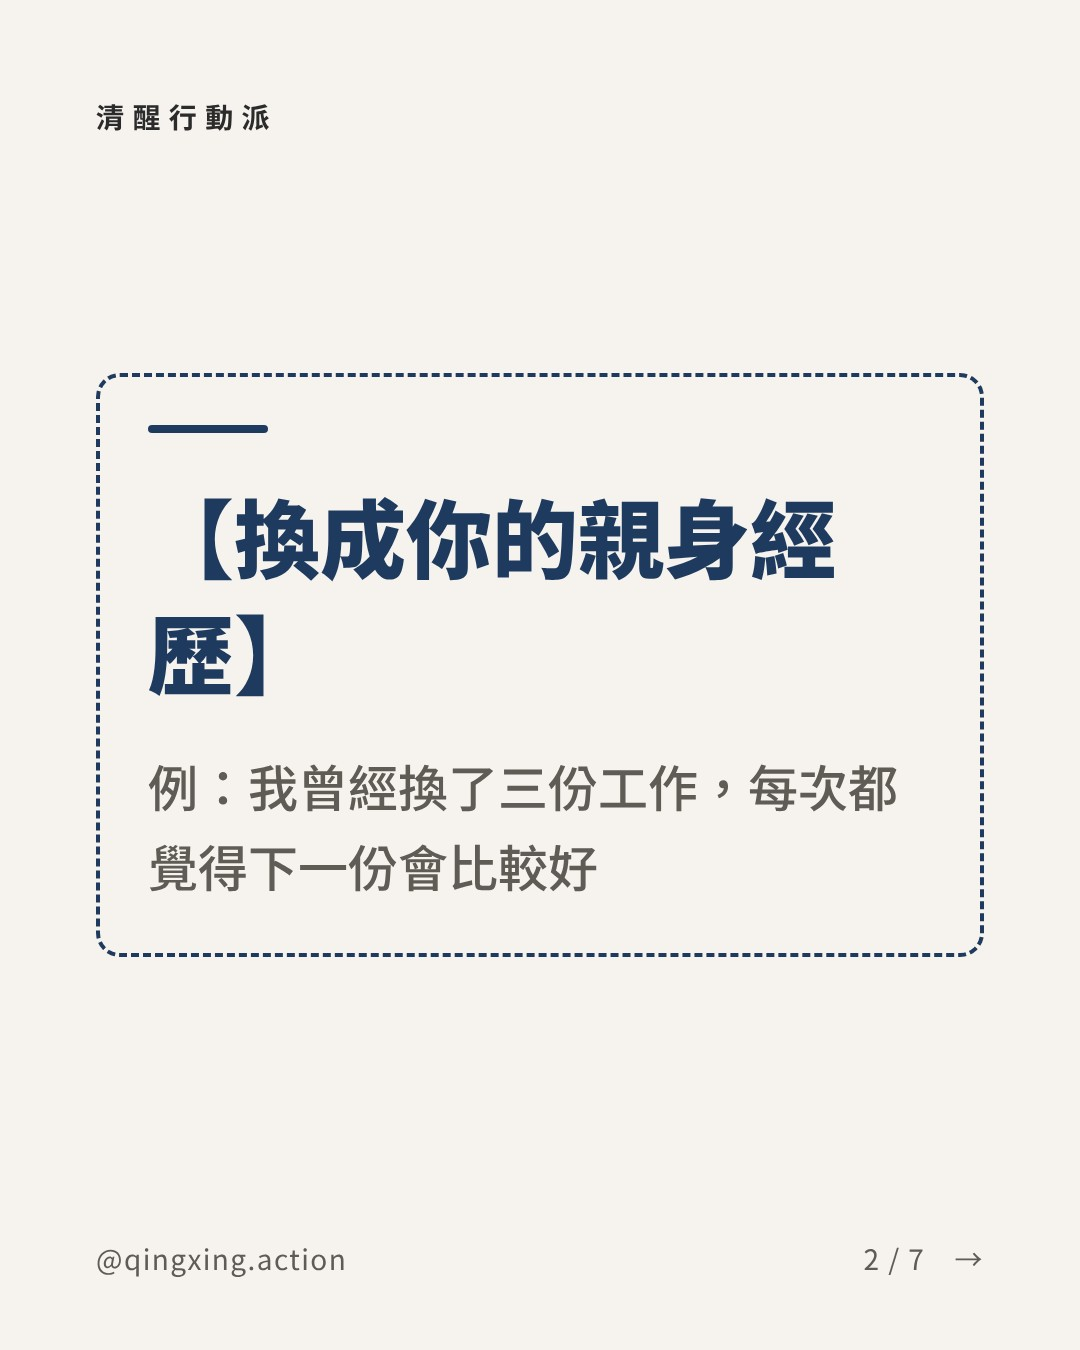
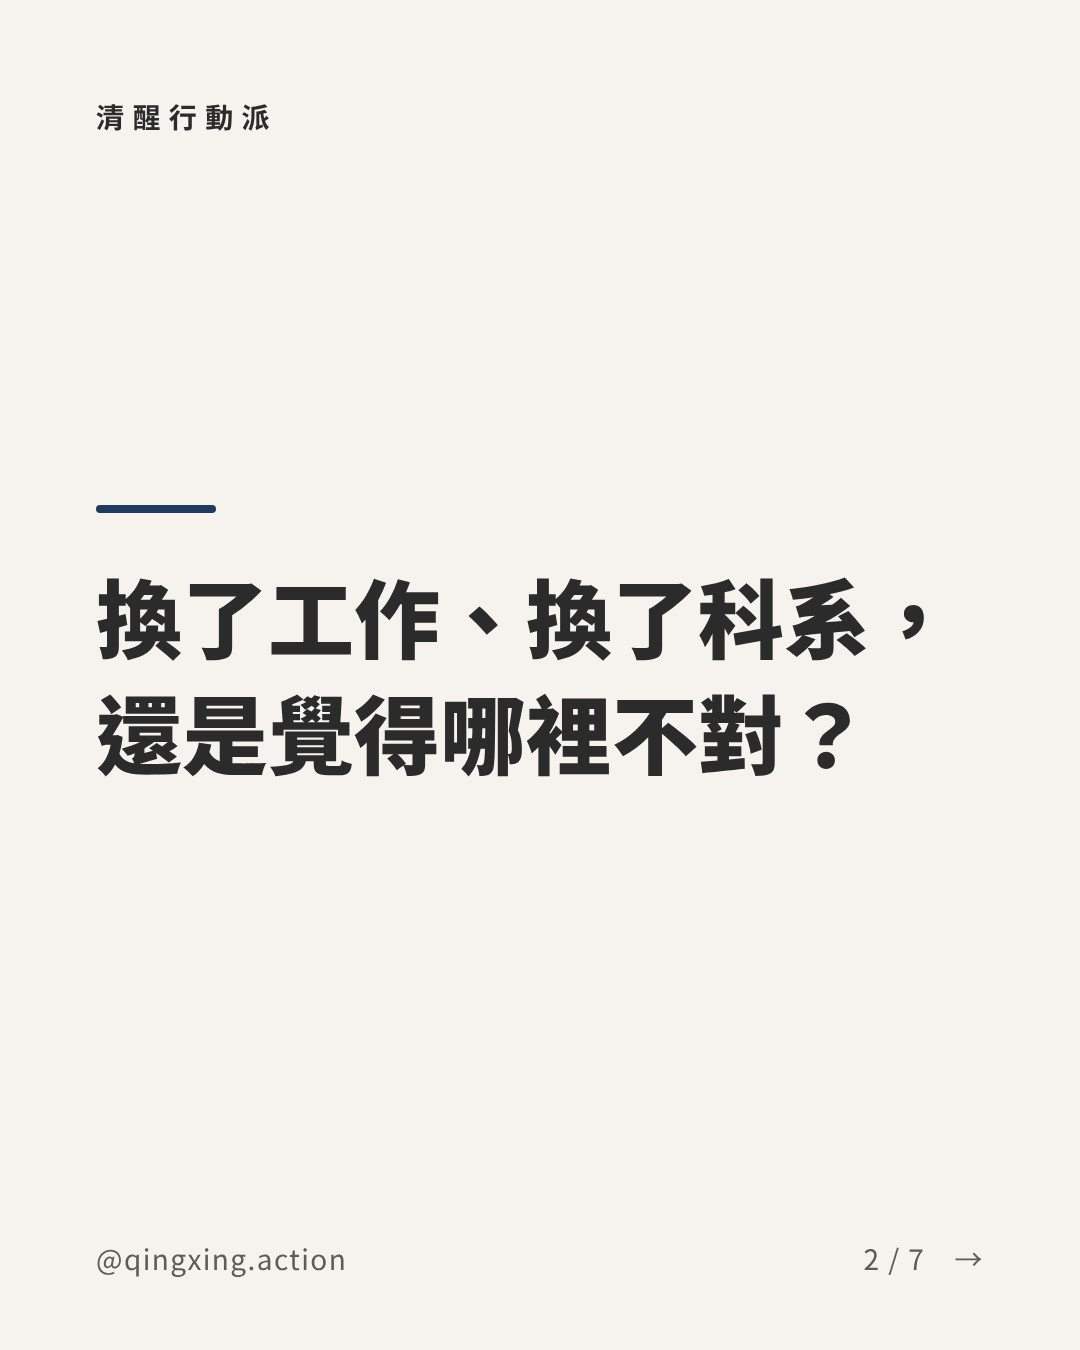
feat(qingxing): 後台可安裝成 Chrome App，加入 IG 排程與快速記錄；Day 10 改為不含個人經歷版本
Claude-Session: https://claude.ai/code/session_016ub6HVuP9gmetJ5a33MKLD

diff --git a/qingxing/index.html b/qingxing/index.html
@@ -3,7 +3,11 @@
 <head>
 <meta charset="utf-8">
 <meta name="viewport" content="width=device-width, initial-scale=1">
-<title>清醒行動派｜數據與收入儀表板</title>
+<title>清醒行動派｜後台</title>
+<link rel="manifest" href="manifest.webmanifest">
+<meta name="theme-color" content="#1F3A5F">
+<link rel="icon" type="image/png" href="icon-192.png">
+<link rel="apple-touch-icon" href="icon-192.png">
 <meta name="description" content="清醒行動派 IG／抖音成長數據與每日入帳追蹤，資料來自 Notion，每 6 小時自動同步。">
 <link rel="preconnect" href="https://fonts.googleapis.com">
 <link href="https://fonts.googleapis.com/css2?family=Noto+Sans+TC:wght@400;500;700&display=swap" rel="stylesheet">
@@ -64,6 +68,18 @@ td.num,th.num{text-align:right}
 .setup{background:var(--tint);border:1px dashed var(--accent3);border-radius:14px;padding:14px 18px;font-size:13.5px;margin-bottom:16px}
 .setup ol{margin:6px 0 0;padding-left:20px}
 .setup code{background:var(--card);padding:1px 6px;border-radius:5px;font-size:12.5px}
+[hidden]{display:none!important}
+.actions{gap:8px}
+.btn{display:inline-flex;align-items:center;border:1px solid var(--accent);background:var(--accent);color:#fff;border-radius:10px;padding:7px 14px;font:inherit;font-size:13.5px;text-decoration:none;cursor:pointer}
+.btn.ghost{background:var(--card);color:var(--accent);border-color:var(--line)}
+.sched{display:grid;grid-template-columns:repeat(auto-fill,minmax(132px,1fr));gap:10px}
+.post{border:1px solid var(--line);border-radius:12px;overflow:hidden;background:var(--bg);text-decoration:none;color:inherit}
+.post img{display:block;width:100%;aspect-ratio:4/5;object-fit:cover;background:var(--grid)}
+.post div{padding:7px 9px 9px;font-size:12px;line-height:1.45}
+.post b{display:block;font-size:12.5px}
+.post .tag{display:inline-block;font-size:11px;padding:0 6px;border-radius:99px;background:var(--tint);color:var(--accent);margin-top:3px}
+.post .tag.draft{background:#FDF1D8;color:#8A5A00}
+.post.today{outline:2px solid var(--accent)}
 footer{margin-top:28px;font-size:12px;color:var(--ink3);text-align:center}
 @media (max-width:640px){ .kpi .v{font-size:22px} h1{font-size:19px} }
 </style>
@@ -71,7 +87,7 @@ footer{margin-top:28px;font-size:12px;color:var(--ink3);text-align:center}
 <body>
 <div class="wrap">
 <header>
-  <h1>清醒行動派<small>數據與收入儀表板｜先清醒，再行動</small></h1>
+  <h1>清醒行動派<small>後台：數據、收入、IG 排程｜先清醒，再行動</small></h1>
   <div class="meta" id="meta">載入中…</div>
 </header>
 
@@ -98,9 +114,18 @@ footer{margin-top:28px;font-size:12px;color:var(--ink3);text-align:center}
   </div>
 </div>
 
+<div class="row actions">
+  <a class="btn" href="https://app.notion.com/p/c6c1c75e84454b7f9e4fe7fa73fcdd5e" target="_blank" rel="noopener">＋ 記錄今天數據</a>
+  <a class="btn" href="https://app.notion.com/p/68fe898d466e4538ac2686aa8b629dd9" target="_blank" rel="noopener">＋ 記錄一筆收入</a>
+  <a class="btn ghost" href="https://portaly.cc/qingxing.action" target="_blank" rel="noopener">Portaly 頁面</a>
+  <a class="btn ghost" href="https://www.instagram.com/qingxing.action/" target="_blank" rel="noopener">IG 帳號</a>
+  <button class="btn ghost" id="installBtn" hidden>安裝成 App</button>
+</div>
+
 <section class="kpis" id="kpis"></section>
 
 <section class="grid">
+  <div class="card wide"><h2>接下來的 IG 排程</h2><div class="sub">每晚 20:00 自動發；標「草稿」的要先補內容才會發</div><div id="sched" class="sched"></div></div>
   <div class="card"><h2>粉絲數</h2><div class="sub">每日累計追蹤數</div><div id="chFollowers"></div></div>
   <div class="card"><h2>觀看數</h2><div class="sub">每日內容觀看／觸及</div><div id="chViews"></div></div>
   <div class="card"><h2>熱度</h2><div class="sub">讚 ＋ 留言×3 ＋ 收藏×5 ＋ 分享×5</div><div id="chHeat"></div></div>
@@ -110,14 +135,14 @@ footer{margin-top:28px;font-size:12px;color:var(--ink3);text-align:center}
   <div class="card wide"><h2>最近入帳</h2><div class="sub">最新 15 筆</div><div class="tbl" id="tblIncome"></div></div>
 </section>
 
-<footer>資料由 GitHub Actions 每 6 小時從 Notion 同步 · <a href="../" style="color:inherit">回生活面板</a></footer>
+<footer>數據每 6 小時從 Notion 同步，IG 排程每次發文設定更新後同步 · <a href="../" style="color:inherit">回生活面板</a></footer>
 </div>
 <div class="tip" id="tip"></div>
 
 <script>
 const PRODUCT_COLORS = {
-  "電子書《從迷惘到行動》":"var(--c1)","模板包":"var(--c3)","電子書+模板包組合":"var(--c4)",
-  "工作坊":"var(--c2)","陪跑服務":"var(--c5)","其他":"var(--c6)"
+  "電子書《從迷惘到行動》":"var(--c1)","Notion 清醒行動系統":"var(--c3)","電子書+Notion系統組合":"var(--c4)","進階版":"var(--c2)",
+  "陪跑服務":"var(--c5)","其他":"var(--c6)"
 };
 const PRODUCT_ORDER = Object.keys(PRODUCT_COLORS);
 const state = { platform:"all", range:30, data:null };
@@ -145,6 +170,28 @@ document.querySelectorAll(".seg").forEach(seg => {
     };
   });
 });
+
+// ---- IG 排程（schedule.json 由 build-ig.mjs 產生）----
+const WD = ["日","一","二","三","四","五","六"]
+fetch("schedule.json?v=" + Date.now()).then(r => r.json()).then(list => {
+  const today = new Date(Date.now() + 8 * 3600e3).toISOString().slice(0, 10)
+  const next = list.filter(p => p.date >= today).slice(0, 7)
+  const el = document.getElementById("sched")
+  if (!next.length) { el.innerHTML = '<div class="empty">接下來沒有排程貼文，請 Claude 排下個月的內容。</div>'; return }
+  el.innerHTML = next.map(p => {
+    const d = new Date(p.date + "T00:00:00+08:00")
+    const kind = { carousel: "輪播", reel: "短影音日", quote: "金句" }[p.kind] || p.kind
+    return `<a class="post${p.date === today ? " today" : ""}" href="${p.cover}" target="_blank" rel="noopener"><img loading="lazy" src="${p.cover}" alt="">` +
+      `<div><b>${p.date.slice(5).replace("-", "/")}（${WD[d.getUTCDay()]}）Day ${p.day}</b>${esc(p.title)}<br>` +
+      `<span class="tag${p.status === "draft" ? " draft" : ""}">${p.status === "draft" ? "草稿" : kind}</span></div></a>`
+  }).join("")
+}).catch(() => { document.getElementById("sched").innerHTML = '<div class="empty">讀不到排程</div>' })
+
+// ---- 安裝成 Chrome App ----
+if ("serviceWorker" in navigator) navigator.serviceWorker.register("sw.js").catch(() => {})
+let installEvt = null
+addEventListener("beforeinstallprompt", e => { e.preventDefault(); installEvt = e; document.getElementById("installBtn").hidden = false })
+document.getElementById("installBtn").onclick = async () => { if (!installEvt) return; installEvt.prompt(); await installEvt.userChoice; installEvt = null; document.getElementById("installBtn").hidden = true }
 
 fetch("data.json?v=" + Date.now()).then(r => r.json()).then(d => { state.data = d; render(); })
   .catch(() => { $("#meta").textContent = "讀不到 data.json"; });

diff --git a/qingxing/sw.js b/qingxing/sw.js
@@ -1,0 +1,12 @@
+// 清醒行動派後台：讓 Chrome 可以安裝成應用程式。資料一律先抓最新的，沒網路時才用上次的。
+const CACHE = 'qx-admin-v1'
+self.addEventListener('install', (e) => self.skipWaiting())
+self.addEventListener('activate', (e) => e.waitUntil(self.clients.claim()))
+self.addEventListener('fetch', (e) => {
+  if (e.request.method !== 'GET' || new URL(e.request.url).origin !== location.origin) return
+  e.respondWith(
+    fetch(e.request)
+      .then((res) => { const copy = res.clone(); caches.open(CACHE).then((c) => c.put(e.request, copy)); return res })
+      .catch(() => caches.match(e.request))
+  )
+})

diff --git a/qingxing/instagram/posts/2026-11-19-day10-ebook-launch.md b/qingxing/instagram/posts/2026-11-19-day10-ebook-launch.md
@@ -8,7 +8,7 @@ images:
   - qingxing/ig/2026-11-19-day10-ebook-launch-5.jpg
   - qingxing/ig/2026-11-19-day10-ebook-launch-6.jpg
   - qingxing/ig/2026-11-19-day10-ebook-launch-7.jpg
-status: draft
+status: ready
 ---
 《從迷惘到行動》今天上架。
 
